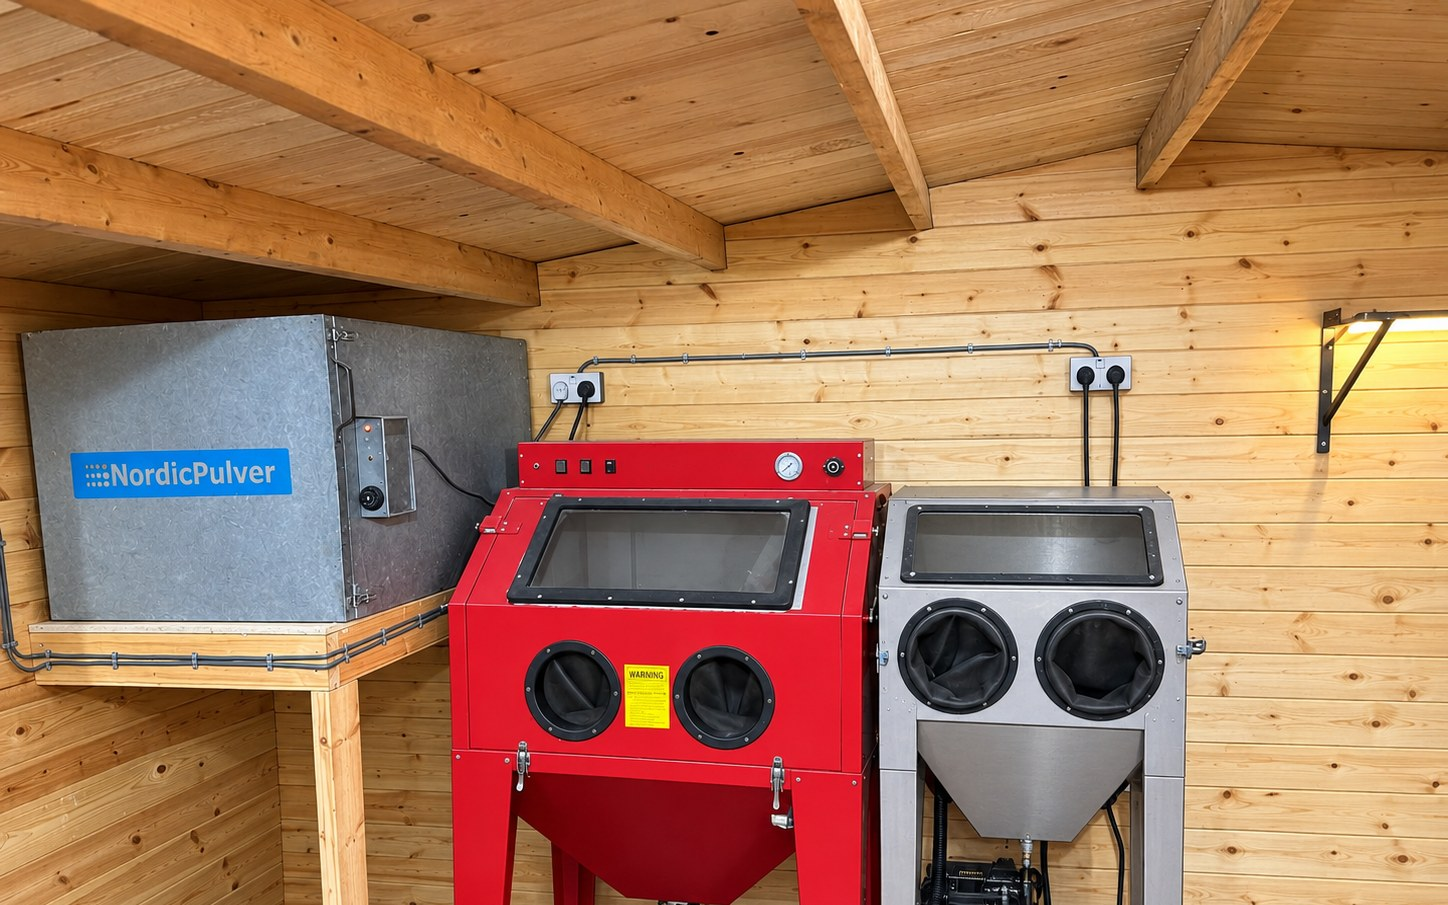
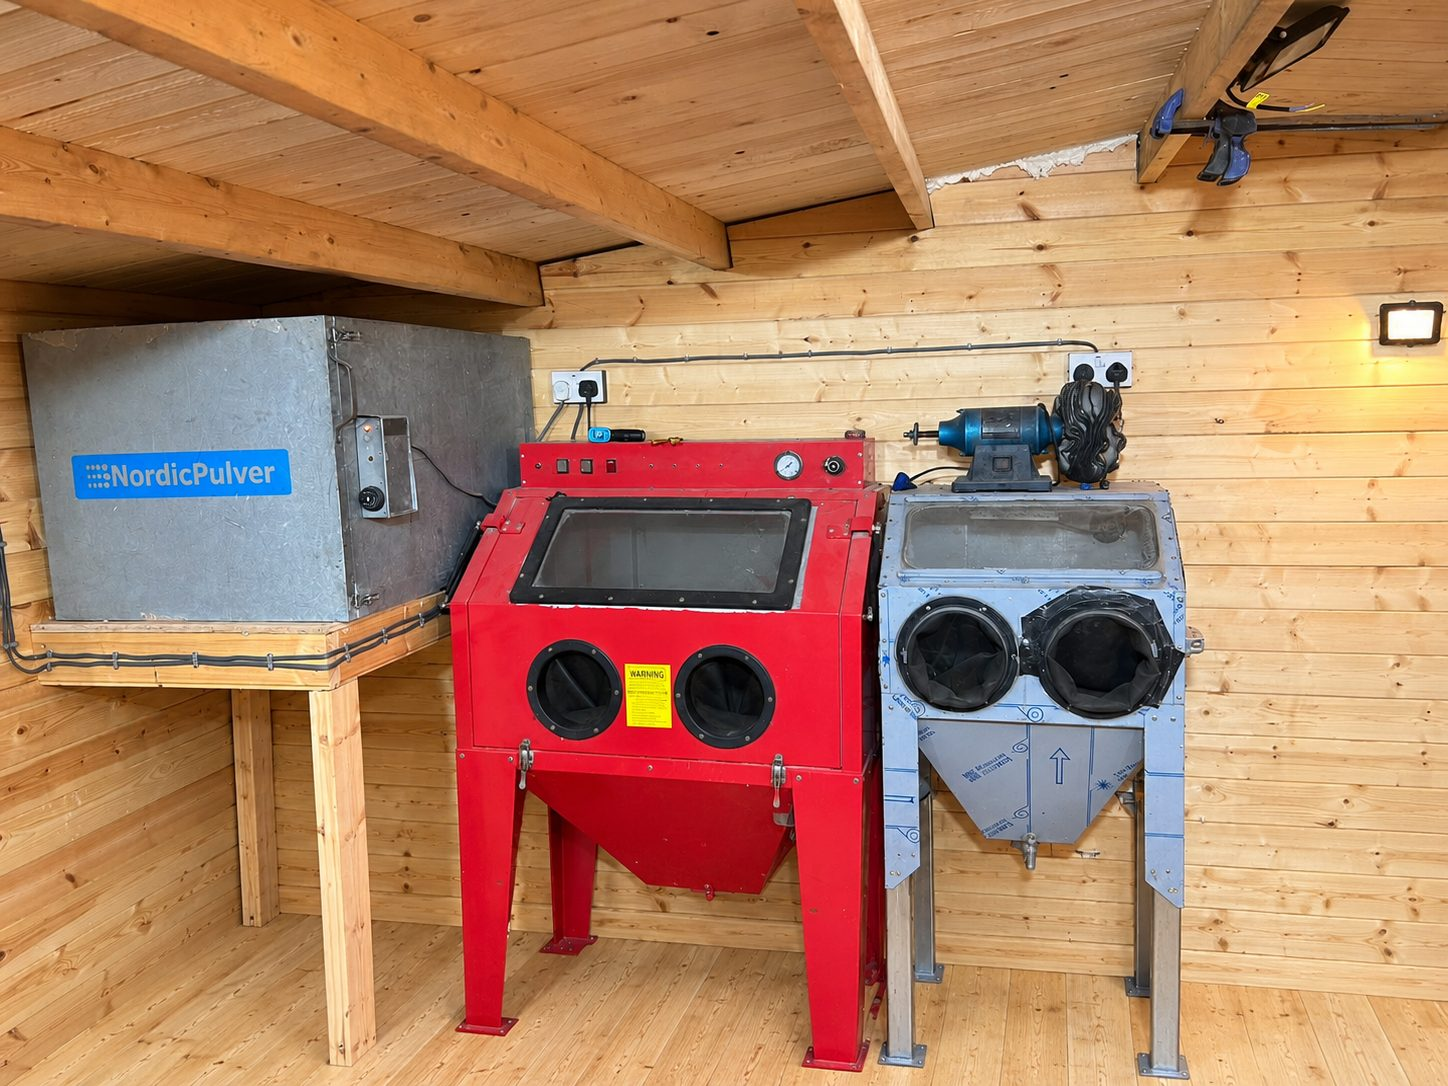
Add files via upload

diff --git a/about.html b/about.html
@@ -42,8 +42,10 @@
 <section class="section">
   <div class="container two-col">
     <div>
-      <div class="gallery-photo" style="min-height:340px; margin-bottom:34px;">
-        <img src="about-workshop.jpg" alt="Rev-Restore workshop interior">
+      <div class="rr-about-photos">
+        <img class="wide" src="about-workshop.jpg" alt="Inside the Rev-Restore workshop: tool wall, workbench and a dirt bike on the lift" loading="lazy">
+        <img src="about-bench.jpg" alt="Workbench with organised tool wall, socket sets and drawers" loading="lazy">
+        <img src="about-lift.jpg" alt="Honda dirt bike strapped to the motorbike lift" loading="lazy">
       </div>
 
       <h2 style="font-size:1.6rem; margin-bottom:16px;">Why work with a one-person workshop</h2>

diff --git a/rev-overrides.css b/rev-overrides.css
@@ -226,3 +226,8 @@ button[type="submit"] {
 
 /* Prices on the "also available" list */
 .rr-also .rr-price{display:block;font-size:.88em;opacity:.75;margin-top:2px}
+
+/* About page workshop photos: one wide shot, two portraits underneath */
+.rr-about-photos{display:grid;grid-template-columns:1fr 1fr;gap:10px;margin-bottom:34px}
+.rr-about-photos img{display:block;width:100%;height:100%;object-fit:cover;border-radius:10px;aspect-ratio:3/4}
+.rr-about-photos img.wide{grid-column:1 / -1;aspect-ratio:4/3}
